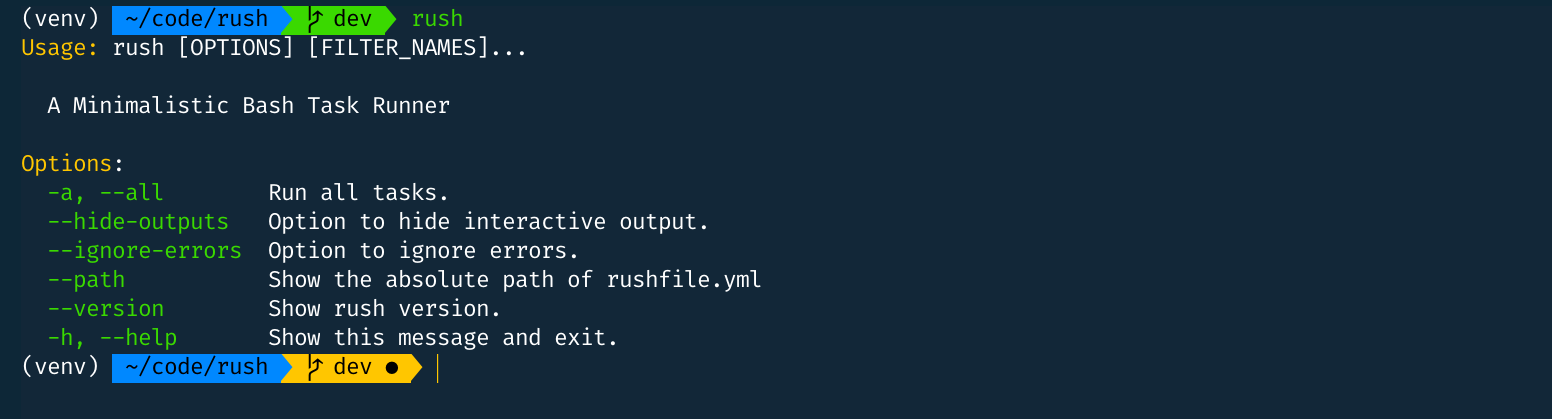
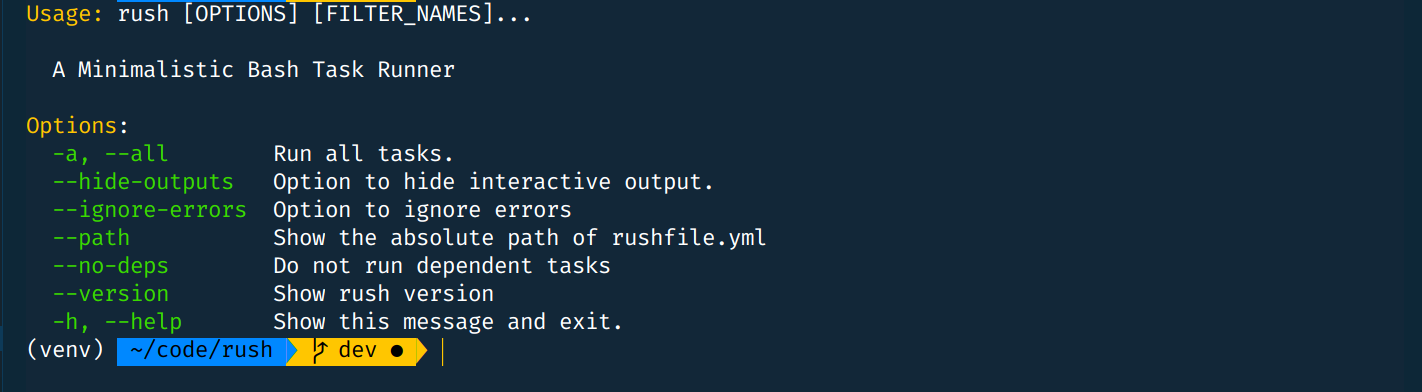
Added --no-deps flag

Changed region(s): [[0.0, 0.3673, 0.557, 0.949], [0.0, 0.0, 0.3713, 0.2755], [0.0, 0.3061, 0.0928, 0.3367]]

diff --git a/rush_cli/cli.py b/rush_cli/cli.py
@@ -10,7 +10,7 @@ from rush_cli.run_tasks import RunTasks
 # Don't strip colors.
 colorama.init(strip=False)
 
-VERSION = "0.3.9"
+VERSION = "0.4.0"
 
 
 @click.command(

diff --git a/rush_cli/prep_tasks.py b/rush_cli/prep_tasks.py
@@ -104,3 +104,4 @@ class Views(PrepTasks):
         rushfile_path = self.find_rushfile()
         click.echo("")
         click.secho(rushfile_path, fg="yellow")
+

diff --git a/README.md b/README.md
@@ -112,7 +112,11 @@ This should show:
     ```
     /home/rednafi/code/rush/rushfile.yml
     ```
-
+* **Do not run the dependent tasks**
+    ```
+    $ rush task_2 --no-deps
+    ```
+    
 ## Quirks
 
 * Rush runs all the commands using `/usr/bin/bash`. So shell specific syntax with other shebangs might throw error. In these cases, I encourage you to create dedicated shell scripts with proper shebang (`#!/usr/bin/env bash`) and add those as tasks in the rushfile.
